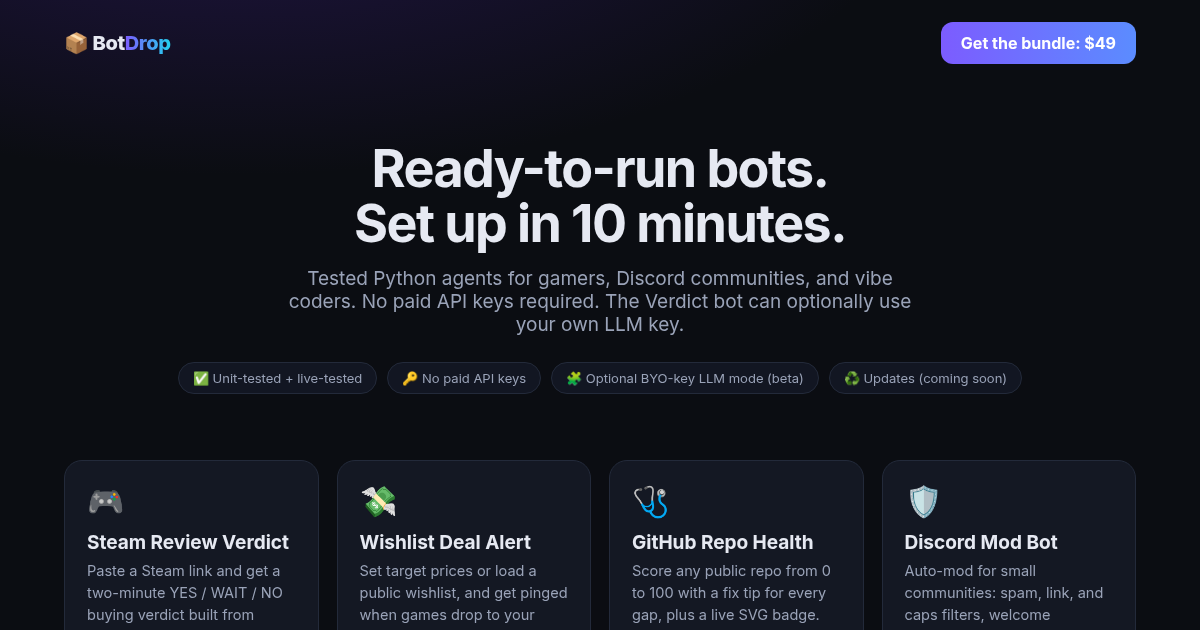
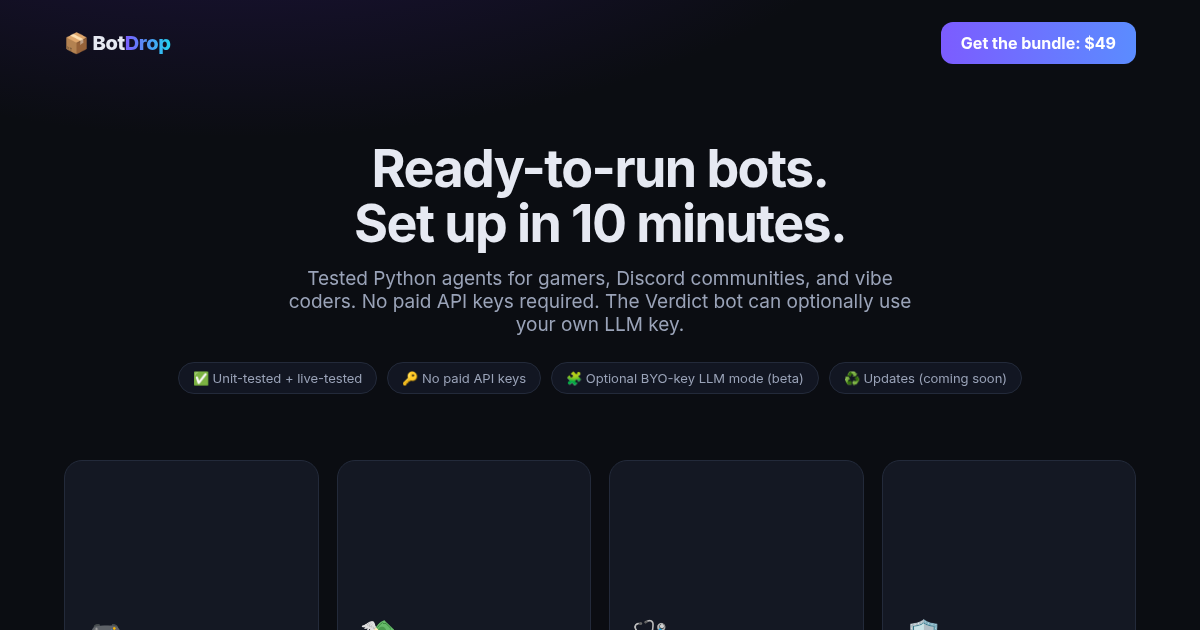
Add per-product cover images (webp) + JSON-LD image fields

diff --git a/index.html b/index.html
@@ -11,7 +11,7 @@
 <meta property="og:url" content="https://botdrop-gg.github.io/"><meta property="og:image" content="https://botdrop-gg.github.io/og.png">
 <meta name="twitter:card" content="summary_large_image"><meta name="twitter:site" content="@getbotdrop">
 <meta name="twitter:title" content="BotDrop: Ready-to-run bots"><meta name="twitter:description" content="BotDrop sells ready-to-run Python bots for gamers and builders: Steam review verdicts, deal alerts, free games radar, patch tracker, Discord mod bot and more. No paid API keys required. Set up in about 10 minutes."><meta name="twitter:image" content="https://botdrop-gg.github.io/og.png">
-<script type="application/ld+json">{"@context": "https://schema.org", "@graph": [{"@type": "Organization", "name": "BotDrop", "url": "https://botdrop-gg.github.io/", "sameAs": ["https://x.com/getbotdrop"]}, {"@type": "Product", "name": "BotDrop Steam Review Verdict template", "description": "Paste a Steam link and get a two-minute YES / WAIT / NO buying verdict built from hundreds of real reviews.", "brand": {"@type": "Brand", "name": "BotDrop"}, "category": "Software > Bot templates", "offers": {"@type": "Offer", "price": "19.00", "priceCurrency": "USD", "availability": "https://schema.org/InStock", "url": "https://gklab.gumroad.com/l/vyhqgz"}}, {"@type": "Product", "name": "BotDrop Wishlist Deal Alert template", "description": "Set target prices or load a public wishlist, and get pinged when games drop to your price.", "brand": {"@type": "Brand", "name": "BotDrop"}, "category": "Software > Bot templates", "offers": {"@type": "Offer", "price": "9.00", "priceCurrency": "USD", "availability": "https://schema.org/InStock", "url": "https://gklab.gumroad.com/l/akzemz"}}, {"@type": "Product", "name": "BotDrop GitHub Repo Health template", "description": "Score any public repo from 0 to 100 with a fix tip for every gap, plus a live SVG badge.", "brand": {"@type": "Brand", "name": "BotDrop"}, "category": "Software > Bot templates", "offers": {"@type": "Offer", "price": "9.00", "priceCurrency": "USD", "availability": "https://schema.org/InStock", "url": "https://gklab.gumroad.com/l/rplfoc"}}, {"@type": "Product", "name": "BotDrop Discord Mod Bot template", "description": "Auto-mod for small communities: spam, link, and caps filters, welcome messages, FAQ, and slash commands. Needs a free bot token.", "brand": {"@type": "Brand", "name": "BotDrop"}, "category": "Software > Bot templates", "offers": {"@type": "Offer", "price": "15.00", "priceCurrency": "USD", "availability": "https://schema.org/InStock", "url": "https://gklab.gumroad.com/l/sppcrr"}}, {"@type": "Product", "name": "BotDrop Free Games Radar template", "description": "Games that are free to keep right now on Epic and Steam (GOG checked too), posted to your Discord.", "brand": {"@type": "Brand", "name": "BotDrop"}, "category": "Software > Bot templates", "offers": {"@type": "Offer", "price": "9.00", "priceCurrency": "USD", "availability": "https://schema.org/InStock", "url": "https://gklab.gumroad.com/l/qafrrm"}}, {"@type": "Product", "name": "BotDrop Player Count Tracker template", "description": "Is that multiplayer game alive or dying? Tracks Steam players over time and gives a verdict.", "brand": {"@type": "Brand", "name": "BotDrop"}, "category": "Software > Bot templates", "offers": {"@type": "Offer", "price": "12.00", "priceCurrency": "USD", "availability": "https://schema.org/InStock", "url": "https://gklab.gumroad.com/l/kmqtn"}}, {"@type": "Product", "name": "BotDrop Patch Tracker template", "description": "Hear about big updates and patch notes for your games without the noise.", "brand": {"@type": "Brand", "name": "BotDrop"}, "category": "Software > Bot templates", "offers": {"@type": "Offer", "price": "12.00", "priceCurrency": "USD", "availability": "https://schema.org/InStock", "url": "https://gklab.gumroad.com/l/szohwi"}}, {"@type": "Product", "name": "BotDrop What to Play Tonight template", "description": "3 games you own but barely played that players love. Beat the backlog.", "brand": {"@type": "Brand", "name": "BotDrop"}, "category": "Software > Bot templates", "offers": {"@type": "Offer", "price": "9.00", "priceCurrency": "USD", "availability": "https://schema.org/InStock", "url": "https://gklab.gumroad.com/l/pzllw"}}, {"@type": "Product", "name": "BotDrop Bundle: all 8 templates", "description": "All eight ready-to-run bot templates plus v2.x updates.", "brand": {"@type": "Brand", "name": "BotDrop"}, "offers": {"@type": "Offer", "price": "49.00", "priceCurrency": "USD", "availability": "https://schema.org/InStock", "url": "https://gklab.gumroad.com/l/gtnidl"}}]}</script>
+<script type="application/ld+json">{"@context": "https://schema.org", "@graph": [{"@type": "Organization", "name": "BotDrop", "url": "https://botdrop-gg.github.io/", "sameAs": ["https://x.com/getbotdrop"]}, {"@type": "Product", "name": "BotDrop Steam Review Verdict template", "description": "Paste a Steam link and get a two-minute YES / WAIT / NO buying verdict built from hundreds of real reviews.", "brand": {"@type": "Brand", "name": "BotDrop"}, "category": "Software > Bot templates", "offers": {"@type": "Offer", "price": "19.00", "priceCurrency": "USD", "availability": "https://schema.org/InStock", "url": "https://gklab.gumroad.com/l/vyhqgz"}, "image": "https://botdrop-gg.github.io/images/cover-01.webp"}, {"@type": "Product", "name": "BotDrop Wishlist Deal Alert template", "description": "Set target prices or load a public wishlist, and get pinged when games drop to your price.", "brand": {"@type": "Brand", "name": "BotDrop"}, "category": "Software > Bot templates", "offers": {"@type": "Offer", "price": "9.00", "priceCurrency": "USD", "availability": "https://schema.org/InStock", "url": "https://gklab.gumroad.com/l/akzemz"}, "image": "https://botdrop-gg.github.io/images/cover-02.webp"}, {"@type": "Product", "name": "BotDrop GitHub Repo Health template", "description": "Score any public repo from 0 to 100 with a fix tip for every gap, plus a live SVG badge.", "brand": {"@type": "Brand", "name": "BotDrop"}, "category": "Software > Bot templates", "offers": {"@type": "Offer", "price": "9.00", "priceCurrency": "USD", "availability": "https://schema.org/InStock", "url": "https://gklab.gumroad.com/l/rplfoc"}, "image": "https://botdrop-gg.github.io/images/cover-03.webp"}, {"@type": "Product", "name": "BotDrop Discord Mod Bot template", "description": "Auto-mod for small communities: spam, link, and caps filters, welcome messages, FAQ, and slash commands. Needs a free bot token.", "brand": {"@type": "Brand", "name": "BotDrop"}, "category": "Software > Bot templates", "offers": {"@type": "Offer", "price": "15.00", "priceCurrency": "USD", "availability": "https://schema.org/InStock", "url": "https://gklab.gumroad.com/l/sppcrr"}, "image": "https://botdrop-gg.github.io/images/cover-04.webp"}, {"@type": "Product", "name": "BotDrop Free Games Radar template", "description": "Games that are free to keep right now on Epic and Steam (GOG checked too), posted to your Discord.", "brand": {"@type": "Brand", "name": "BotDrop"}, "category": "Software > Bot templates", "offers": {"@type": "Offer", "price": "9.00", "priceCurrency": "USD", "availability": "https://schema.org/InStock", "url": "https://gklab.gumroad.com/l/qafrrm"}, "image": "https://botdrop-gg.github.io/images/cover-05.webp"}, {"@type": "Product", "name": "BotDrop Player Count Tracker template", "description": "Is that multiplayer game alive or dying? Tracks Steam players over time and gives a verdict.", "brand": {"@type": "Brand", "name": "BotDrop"}, "category": "Software > Bot templates", "offers": {"@type": "Offer", "price": "12.00", "priceCurrency": "USD", "availability": "https://schema.org/InStock", "url": "https://gklab.gumroad.com/l/kmqtn"}, "image": "https://botdrop-gg.github.io/images/cover-06.webp"}, {"@type": "Product", "name": "BotDrop Patch Tracker template", "description": "Hear about big updates and patch notes for your games without the noise.", "brand": {"@type": "Brand", "name": "BotDrop"}, "category": "Software > Bot templates", "offers": {"@type": "Offer", "price": "12.00", "priceCurrency": "USD", "availability": "https://schema.org/InStock", "url": "https://gklab.gumroad.com/l/szohwi"}, "image": "https://botdrop-gg.github.io/images/cover-07.webp"}, {"@type": "Product", "name": "BotDrop What to Play Tonight template", "description": "3 games you own but barely played that players love. Beat the backlog.", "brand": {"@type": "Brand", "name": "BotDrop"}, "category": "Software > Bot templates", "offers": {"@type": "Offer", "price": "9.00", "priceCurrency": "USD", "availability": "https://schema.org/InStock", "url": "https://gklab.gumroad.com/l/pzllw"}, "image": "https://botdrop-gg.github.io/images/cover-08.webp"}, {"@type": "Product", "name": "BotDrop Bundle: all 8 templates", "description": "All eight ready-to-run bot templates plus v2.x updates.", "brand": {"@type": "Brand", "name": "BotDrop"}, "offers": {"@type": "Offer", "price": "49.00", "priceCurrency": "USD", "availability": "https://schema.org/InStock", "url": "https://gklab.gumroad.com/l/gtnidl"}, "image": "https://botdrop-gg.github.io/images/cover-09.webp"}]}</script>
 <style>
 :root{--bg:#0b0d12;--card:#141823;--line:#232a3a;--txt:#e6e9f2;--mut:#9aa3b8;--acc:#7c5cff;--acc2:#22d3ee}
 *{box-sizing:border-box}body{margin:0;font-family:Inter,system-ui,-apple-system,Segoe UI,sans-serif;background:radial-gradient(1200px 600px at 20% -10%,#24164d 0,transparent 60%),var(--bg);color:var(--txt)}
@@ -30,22 +30,22 @@
 .bundle h2{margin:0 0 6px;font-size:28px}.bundle p{margin:0;color:var(--mut)}.strike{color:var(--mut);text-decoration:line-through;font-size:18px;margin-right:8px}
 .feat{display:grid;grid-template-columns:repeat(auto-fit,minmax(220px,1fr));gap:16px;padding-bottom:40px}.feat div{border-top:1px solid var(--line);padding-top:14px;color:var(--mut);font-size:14px}.feat b{color:var(--txt);display:block;margin-bottom:4px}
 footer{color:var(--mut);font-size:13px;padding:24px 0 40px;border-top:1px solid var(--line)}
-@media(max-width:1000px){.grid{grid-template-columns:repeat(2,1fr)}}@media(max-width:560px){.grid{grid-template-columns:1fr}.hero h1{font-size:36px}}.soon{background:#2a2f40;color:#9aa3b8;cursor:default;font-weight:600}</style></head><body><div class="wrap">
+@media(max-width:1000px){.grid{grid-template-columns:repeat(2,1fr)}}@media(max-width:560px){.grid{grid-template-columns:1fr}.hero h1{font-size:36px}}.soon{background:#2a2f40;color:#9aa3b8;cursor:default;font-weight:600}.cover{width:calc(100% + 44px);margin:-22px -22px 14px;aspect-ratio:16/9;height:auto;object-fit:cover;border-radius:18px 18px 0 0;display:block}.bcover{flex:0 0 300px;width:300px;max-width:100%;aspect-ratio:16/9;height:auto;object-fit:cover;border-radius:14px}@media(max-width:700px){.bcover{flex:1 1 100%;width:100%}}</style></head><body><div class="wrap">
 <nav><div class="logo">📦 Bot<span>Drop</span></div><a class="btn" href="https://gklab.gumroad.com/l/gtnidl" target="_blank" rel="noopener">Get the bundle: $49</a></nav>
 <section class="hero"><h1>Ready-to-run bots.<br>Set up in 10 minutes.</h1>
 <p>Tested Python agents for gamers, Discord communities, and vibe coders. No paid API keys required. The Verdict bot can optionally use your own LLM key.</p>
 <div class="pills"><span class="pill">✅ Unit-tested + live-tested</span><span class="pill">🔑 No paid API keys</span><span class="pill">🧩 Optional BYO-key LLM mode (beta)</span><span class="pill">♻ Updates (coming soon)</span></div></section>
 <section class="grid">
-<div class="card"><div class="ico">🎮</div><h3>Steam Review Verdict</h3><p>Paste a Steam link and get a two-minute YES / WAIT / NO buying verdict built from hundreds of real reviews.</p><div class="for">For: gamers, curators, creators</div><ul><li>Playtime-weighted scoring</li><li>Recent vs. lifetime trend</li><li>CLI + web app + JSON API</li></ul><div class="buy"><span class="price">$19</span><a class="btn" href="https://gklab.gumroad.com/l/vyhqgz" target="_blank" rel="noopener" aria-label="Buy Steam Review Verdict for $19 USD">Buy</a></div></div>
-<div class="card"><div class="ico">💸</div><h3>Wishlist Deal Alert</h3><p>Set target prices or load a public wishlist, and get pinged when games drop to your price.</p><div class="for">For: deal hunters, Discord servers</div><ul><li>Target price or % discount</li><li>Any Steam region</li><li>Discord webhook alerts</li></ul><div class="buy"><span class="price">$9</span><a class="btn" href="https://gklab.gumroad.com/l/akzemz" target="_blank" rel="noopener" aria-label="Buy Wishlist Deal Alert for $9 USD">Buy</a></div></div>
-<div class="card"><div class="ico">🩺</div><h3>GitHub Repo Health</h3><p>Score any public repo from 0 to 100 with a fix tip for every gap, plus a live SVG badge.</p><div class="for">For: vibe coders, maintainers</div><ul><li>A–F grade + report</li><li>JSON API + README badge</li><li>No token needed</li></ul><div class="buy"><span class="price">$9</span><a class="btn" href="https://gklab.gumroad.com/l/rplfoc" target="_blank" rel="noopener" aria-label="Buy GitHub Repo Health for $9 USD">Buy</a></div></div>
-<div class="card"><div class="ico">🛡</div><h3>Discord Mod Bot</h3><p>Auto-mod for small communities: spam, link, and caps filters, welcome messages, FAQ, and slash commands. Needs a free bot token.</p><div class="for">For: gaming & dev Discord owners</div><ul><li>Strikes → auto-timeout</li><li>FAQ from YAML</li><li>/warn /timeout /purge · unit-tested filters</li></ul><div class="buy"><span class="price">$15</span><a class="btn" href="https://gklab.gumroad.com/l/sppcrr" target="_blank" rel="noopener" aria-label="Buy Discord Mod Bot for $15 USD">Buy</a></div></div>
-<div class="card"><div class="ico">🎁</div><h3>Free Games Radar</h3><p>Games that are free to keep right now on Epic and Steam (GOG checked too), posted to your Discord.</p><div class="for">For: freebie hunters, communities</div><ul><li>Epic upcoming freebies</li><li>Deduped alerts</li><li>Checks every 6h (configurable)</li></ul><div class="buy"><span class="price">$9</span><a class="btn" href="https://gklab.gumroad.com/l/qafrrm" target="_blank" rel="noopener" aria-label="Buy Free Games Radar for $9 USD">Buy</a></div></div>
-<div class="card"><div class="ico">📈</div><h3>Player Count Tracker</h3><p>Is that multiplayer game alive or dying? Tracks Steam players over time and gives a verdict.</p><div class="for">For: multiplayer buyers, analysts</div><ul><li>SQLite history</li><li>ALIVE / DYING / GROWING</li><li>One alert when a game turns DYING</li></ul><div class="buy"><span class="price">$12</span><a class="btn" href="https://gklab.gumroad.com/l/kmqtn" target="_blank" rel="noopener" aria-label="Buy Player Count Tracker for $12 USD">Buy</a></div></div>
-<div class="card"><div class="ico">🔧</div><h3>Patch Tracker</h3><p>Hear about big updates and patch notes for your games without the noise.</p><div class="for">For: players, Discord servers, creators</div><ul><li>MAJOR vs. patch detection</li><li>Official posts only</li><li>Never repeats an alert</li></ul><div class="buy"><span class="price">$12</span><a class="btn" href="https://gklab.gumroad.com/l/szohwi" target="_blank" rel="noopener" aria-label="Buy Patch Tracker for $12 USD">Buy</a></div></div>
-<div class="card"><div class="ico">🌙</div><h3>What to Play Tonight</h3><p>3 games you own but barely played that players love. Beat the backlog.</p><div class="for">For: backlog-havers</div><ul><li>Wilson-score ranking</li><li>Manual list, or library import (free Steam key, beta)</li><li>Daily picks to Discord</li></ul><div class="buy"><span class="price">$9</span><a class="btn" href="https://gklab.gumroad.com/l/pzllw" target="_blank" rel="noopener" aria-label="Buy What to Play Tonight for $9 USD">Buy</a></div></div>
+<div class="card"><img class="cover" src="images/cover-01.webp" alt="Steam Review Verdict cover: a robot with a magnifying glass beside a Buy / Wait / Skip verdict badge" width="1200" height="675" decoding="async"><div class="ico">🎮</div><h3>Steam Review Verdict</h3><p>Paste a Steam link and get a two-minute YES / WAIT / NO buying verdict built from hundreds of real reviews.</p><div class="for">For: gamers, curators, creators</div><ul><li>Playtime-weighted scoring</li><li>Recent vs. lifetime trend</li><li>CLI + web app + JSON API</li></ul><div class="buy"><span class="price">$19</span><a class="btn" href="https://gklab.gumroad.com/l/vyhqgz" target="_blank" rel="noopener" aria-label="Buy Steam Review Verdict for $19 USD">Buy</a></div></div>
+<div class="card"><img class="cover" src="images/cover-02.webp" alt="Wishlist Deal Alert cover: a robot ringing a bell next to a -70% price tag" width="1200" height="675" decoding="async"><div class="ico">💸</div><h3>Wishlist Deal Alert</h3><p>Set target prices or load a public wishlist, and get pinged when games drop to your price.</p><div class="for">For: deal hunters, Discord servers</div><ul><li>Target price or % discount</li><li>Any Steam region</li><li>Discord webhook alerts</li></ul><div class="buy"><span class="price">$9</span><a class="btn" href="https://gklab.gumroad.com/l/akzemz" target="_blank" rel="noopener" aria-label="Buy Wishlist Deal Alert for $9 USD">Buy</a></div></div>
+<div class="card"><img class="cover" src="images/cover-03.webp" alt="Repo Health Checker cover: a doctor robot with a stethoscope checking a code folder graded A" width="1200" height="675" decoding="async"><div class="ico">🩺</div><h3>GitHub Repo Health</h3><p>Score any public repo from 0 to 100 with a fix tip for every gap, plus a live SVG badge.</p><div class="for">For: vibe coders, maintainers</div><ul><li>A–F grade + report</li><li>JSON API + README badge</li><li>No token needed</li></ul><div class="buy"><span class="price">$9</span><a class="btn" href="https://gklab.gumroad.com/l/rplfoc" target="_blank" rel="noopener" aria-label="Buy GitHub Repo Health for $9 USD">Buy</a></div></div>
+<div class="card"><img class="cover" src="images/cover-04.webp" alt="Discord Mod Bot cover: a robot with a shield badge blocking a red-crossed chat message" width="1200" height="675" decoding="async"><div class="ico">🛡</div><h3>Discord Mod Bot</h3><p>Auto-mod for small communities: spam, link, and caps filters, welcome messages, FAQ, and slash commands. Needs a free bot token.</p><div class="for">For: gaming & dev Discord owners</div><ul><li>Strikes → auto-timeout</li><li>FAQ from YAML</li><li>/warn /timeout /purge · unit-tested filters</li></ul><div class="buy"><span class="price">$15</span><a class="btn" href="https://gklab.gumroad.com/l/sppcrr" target="_blank" rel="noopener" aria-label="Buy Discord Mod Bot for $15 USD">Buy</a></div></div>
+<div class="card"><img class="cover" src="images/cover-05.webp" alt="Free Games Radar cover: a robot beside a radar screen spotting free games and gifts" width="1200" height="675" decoding="async"><div class="ico">🎁</div><h3>Free Games Radar</h3><p>Games that are free to keep right now on Epic and Steam (GOG checked too), posted to your Discord.</p><div class="for">For: freebie hunters, communities</div><ul><li>Epic upcoming freebies</li><li>Deduped alerts</li><li>Checks every 6h (configurable)</li></ul><div class="buy"><span class="price">$9</span><a class="btn" href="https://gklab.gumroad.com/l/qafrrm" target="_blank" rel="noopener" aria-label="Buy Free Games Radar for $9 USD">Buy</a></div></div>
+<div class="card"><img class="cover" src="images/cover-06.webp" alt="Player Count Tracker cover: a robot pointing at a rising player-count chart" width="1200" height="675" decoding="async"><div class="ico">📈</div><h3>Player Count Tracker</h3><p>Is that multiplayer game alive or dying? Tracks Steam players over time and gives a verdict.</p><div class="for">For: multiplayer buyers, analysts</div><ul><li>SQLite history</li><li>ALIVE / DYING / GROWING</li><li>One alert when a game turns DYING</li></ul><div class="buy"><span class="price">$12</span><a class="btn" href="https://gklab.gumroad.com/l/kmqtn" target="_blank" rel="noopener" aria-label="Buy Player Count Tracker for $12 USD">Buy</a></div></div>
+<div class="card"><img class="cover" src="images/cover-07.webp" alt="Patch Tracker cover: a robot with a wrench next to a v1.2 patch-notes scroll and a bell" width="1200" height="675" decoding="async"><div class="ico">🔧</div><h3>Patch Tracker</h3><p>Hear about big updates and patch notes for your games without the noise.</p><div class="for">For: players, Discord servers, creators</div><ul><li>MAJOR vs. patch detection</li><li>Official posts only</li><li>Never repeats an alert</li></ul><div class="buy"><span class="price">$12</span><a class="btn" href="https://gklab.gumroad.com/l/szohwi" target="_blank" rel="noopener" aria-label="Buy Patch Tracker for $12 USD">Buy</a></div></div>
+<div class="card"><img class="cover" src="images/cover-08.webp" alt="What to Play Tonight cover: a robot on a couch at night with a controller and three game cards" width="1200" height="675" decoding="async"><div class="ico">🌙</div><h3>What to Play Tonight</h3><p>3 games you own but barely played that players love. Beat the backlog.</p><div class="for">For: backlog-havers</div><ul><li>Wilson-score ranking</li><li>Manual list, or library import (free Steam key, beta)</li><li>Daily picks to Discord</li></ul><div class="buy"><span class="price">$9</span><a class="btn" href="https://gklab.gumroad.com/l/pzllw" target="_blank" rel="noopener" aria-label="Buy What to Play Tonight for $9 USD">Buy</a></div></div>
 </section>
-<section class="bundle"><div><h2>🎁 The BotDrop Bundle: all 8 templates</h2><p>Everything above, in one download. Use it in unlimited personal and commercial projects.</p></div>
+<section class="bundle"><img class="bcover" src="images/cover-09.webp" alt="BotDrop Bundle cover: eight colorful robots bursting out of a glowing treasure chest, labeled 8 bots" width="1200" height="675" decoding="async"><div style="flex:1;min-width:240px"><h2>🎁 The BotDrop Bundle: all 8 templates</h2><p>Everything above, in one download. Use it in unlimited personal and commercial projects.</p></div>
 <div style="display:flex;align-items:center;gap:16px"><span><span class="strike">$94</span><span class="price">$49</span></span><a class="btn" href="https://gklab.gumroad.com/l/gtnidl" target="_blank" rel="noopener">Buy the bundle</a></div></section>
 <p style="text-align:center;color:var(--mut);font-size:13px;margin:-20px 0 30px">All prices in USD. Checkout via Gumroad (it may show your local currency). Instant download. <strong>30-day money-back guarantee, no questions asked.</strong></p>
 <section class="feat"><div><b>~10-minute setup</b>Step-by-step README, .env.example, and config file in every template.</div><div><b>Actually tested</b>Unit tests plus live runs against real Steam, Epic & GitHub data.</div><div><b>Deploy configs included</b>Every template has a Dockerfile (built and run in QA) plus Render and Railway configs.</div><div><b>Yours to customize</b>Clean, readable Python. Customize it and run it for yourself or your clients.</div><div><b>Kept up to date (coming soon)</b>We're working on automated weekly re-checks against API changes.</div></section>
